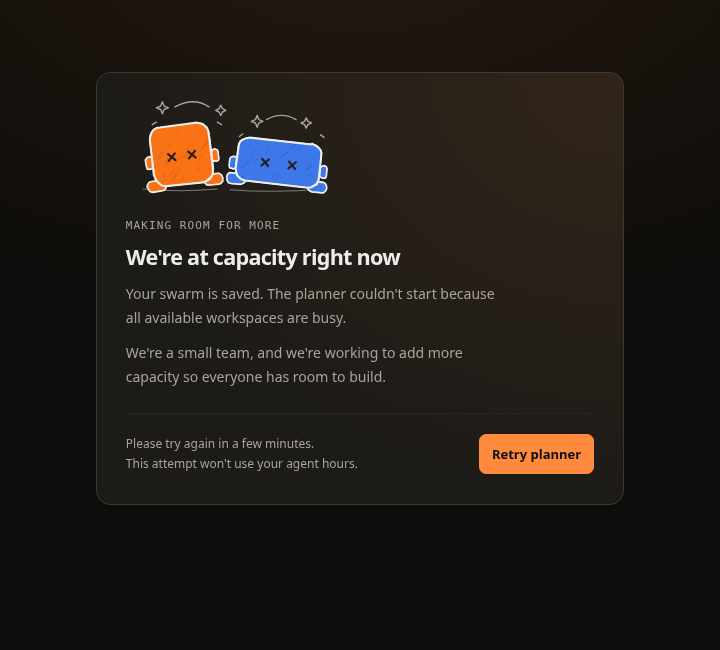
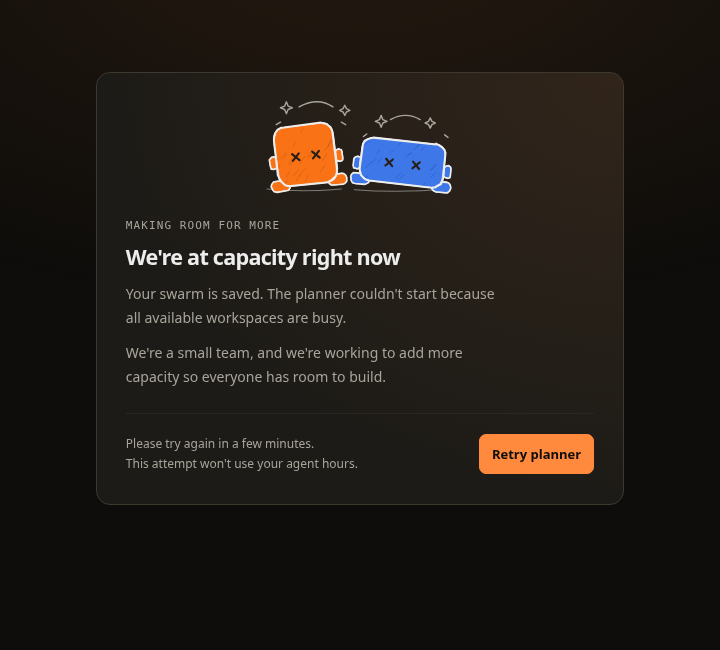
Center capacity notice mascots and refresh preview

Changed region(s): [[0.1833, 0.1538, 0.6417, 0.3077]]

diff --git a/apps/web/src/styles.css b/apps/web/src/styles.css
@@ -11136,7 +11136,7 @@ a.swarm-plan-source-name:hover {
   color: var(--text);
   text-align: left;
 }
-.capacity-notice-art { width: 220px; max-width: 100%; margin: -12px 0 12px; }
+.capacity-notice-art { width: 220px; max-width: 100%; margin: -12px auto 12px; }
 .capacity-notice-art svg { display: block; width: 100%; height: auto; overflow: visible; }
 .capacity-notice-art .board-mascot, .capacity-notice-art .board-mascot-eyes { animation: none; }
 .capacity-notice-stars { fill: none; stroke: var(--text-dim); stroke-width: 1.7; stroke-linecap: round; stroke-linejoin: round; }
